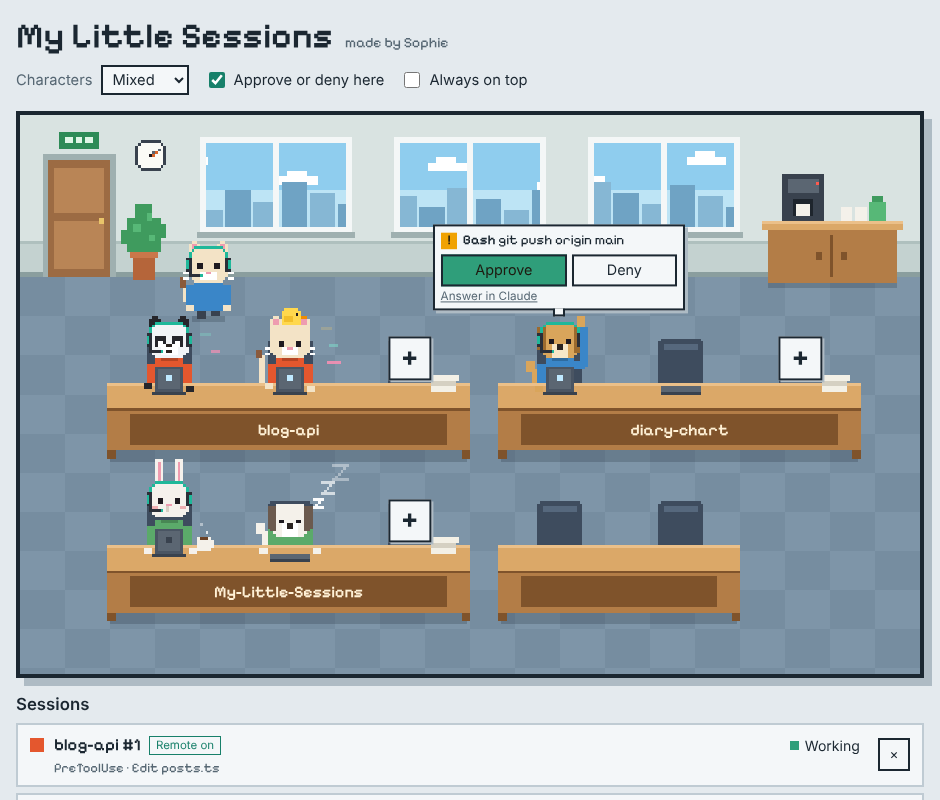
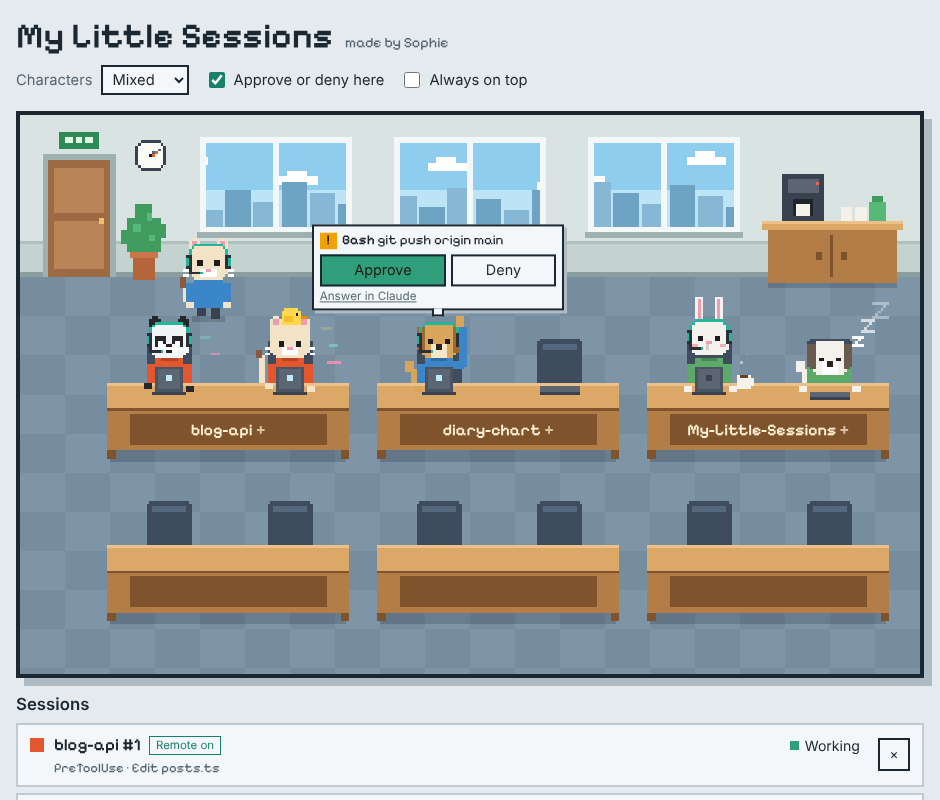
Start new sessions from the desk nameplate; rest state follows Remote Control
The spare chair with a + is gone: it left an empty seat at every desk.
A desk is now exactly as wide as its team (someone alone sits in the
middle of a two-seat desk), and clicking the project name on the desk,
or "New session here" on a character's card, opens a new session in that
project.

A waiting session now has coffee while its Remote Control is on and
sleeps while it is off. Before a hook has reported either, it still
dozes off after five quiet minutes.

Version 0.3.1.

Claude-Session: https://claude.ai/code/session_011fB4UR8gxU3EZ1Y68YrFjY

diff --git a/src/ui/app.js b/src/ui/app.js
@@ -11,7 +11,7 @@
       working: 'Working', subagent: 'Intern at work', approval: 'Needs approval', waiting: 'Waiting for you', sleeping: 'Asleep', error: 'Error', arriving: 'Arriving', leaving: 'Leaving',
       allow: 'Approve', deny: 'Deny', pass: 'Answer in Claude', answerInClaude: 'Answer this one in Claude.', more: n => `+${n} more`,
       dismiss: 'Clear desk', needsYou: 'Needs your answer',
-      newSession: name => `Start a new session in ${name}`, newFail: 'Could not open the Claude desktop app.',
+      newSession: name => `Start a new session in ${name}`, newHere: 'New session here', newFail: 'Could not open the Claude desktop app.',
       rcOn: 'Remote on', rcOff: 'Remote off', rcOnLong: 'Remote Control is connected.', rcOffLong: 'Remote Control is off for this session.',
       copyRc: 'Copy /remote-control', copied: 'Copied. Paste it into that session and press Enter.', copyFail: 'Could not copy. Type /remote-control in that session.',
       connectNone: 'Not connected to Claude Code yet. Connecting adds hooks to your Claude Code settings file (the original is backed up first), and sessions show up here whenever they do something.',
@@ -32,7 +32,7 @@
       working: '작업 중', subagent: '인턴 투입', approval: '승인 대기', waiting: '입력 대기', sleeping: '자는 중', error: '오류', arriving: '출근 중', leaving: '퇴근 중',
       allow: '승인', deny: '거절', pass: 'Claude에서 답하기', answerInClaude: '이 요청은 Claude에서 답해 주세요.', more: n => `외 ${n}건`,
       dismiss: '자리 치우기', needsYou: '확인이 필요해요',
-      newSession: name => `${name}에서 새 세션 시작`, newFail: 'Claude 데스크톱 앱을 열지 못했어요.',
+      newSession: name => `${name}에서 새 세션 시작`, newHere: '여기에 새 세션', newFail: 'Claude 데스크톱 앱을 열지 못했어요.',
       rcOn: '원격 켜짐', rcOff: '원격 꺼짐', rcOnLong: '리모트 컨트롤이 연결돼 있어요.', rcOffLong: '이 세션은 리모트 컨트롤이 꺼져 있어요.',
       copyRc: '/remote-control 복사', copied: '복사했어요. 그 세션에 붙여 넣고 Enter를 누르세요.', copyFail: '복사하지 못했어요. 그 세션에서 /remote-control을 직접 입력해 주세요.',
       connectNone: '아직 Claude Code와 연결되지 않았어요. 연결하면 Claude Code 설정 파일에 훅이 추가되고(원래 파일은 먼저 백업해요), 세션이 움직일 때마다 여기에 나타나요.',
@@ -60,6 +60,7 @@
   emptyEl.textContent = T.empty;
   $('card-dismiss').textContent = T.dismiss;
   $('card-copy').textContent = T.copyRc;
+  $('card-new').textContent = T.newHere;
   $('disconnect').textContent = T.disconnect;
   $('connect-warn').textContent = T.connectWarn;
   $('notice-ok').textContent = T.ok;
@@ -101,20 +102,16 @@
     return h >>> 0;
   }
   function makeDesk(team) {
-    const tag = document.createElement('span');
-    tag.className = 'tag';
-    const plus = document.createElement('button');
-    plus.type = 'button'; plus.className = 'plus'; plus.textContent = '+'; plus.hidden = true;
-    plus.addEventListener('click', async () => {
-      const res = await post('/api/new', { team });
-      if (!res.ok) toast(T.newFail);
-    });
-    stage.append(tag, plus);
-    return { team, tag, plus, deco: hash(team) % 3, cur: null, tgt: null, row: 0, slots: [], name: '' };
+    const tag = document.createElement('button');
+    tag.type = 'button'; tag.className = 'tag';
+    tag.addEventListener('click', () => newSession(team));
+    stage.append(tag);
+    return { team, tag, deco: hash(team) % 3, cur: null, tgt: null, row: 0, slots: [], name: '' };
   }
 
-  // Decides who sits where. Sessions of one project share a desk, in the order they started, and
-  // each team gets one spare chair that starts a new session. Returns how many rows are in use.
+  // Decides who sits where. Sessions of one project share a desk, in the order they started.
+  // A desk is never narrower than two seats, so its nameplate stays readable; someone sitting
+  // alone sits in the middle. Returns how many rows are in use.
   function arrange() {
     const groups = new Map();
     for (const v of visuals.values()) if (!teamSeen.has(v.team)) teamSeen.set(v.team, teamCount++);
@@ -123,27 +120,26 @@
     for (const v of present) { if (!groups.has(v.team)) groups.set(v.team, []); groups.get(v.team).push(v); }
     const wanted = new Map();
     for (const [team, members] of groups) {
-      const slots = [...members, null];   // the spare chair
+      const slots = members;
       for (let n = 0; n * SEATS_PER_DESK < slots.length; n++) {
         wanted.set(team + '#' + n, { team, name: members[0].session.projectName, slots: slots.slice(n * SEATS_PER_DESK, (n + 1) * SEATS_PER_DESK) });
       }
     }
-    for (const [k, d] of [...desks]) if (!wanted.has(k)) { d.tag.remove(); d.plus.remove(); desks.delete(k); }
+    for (const [k, d] of [...desks]) if (!wanted.has(k)) { d.tag.remove(); desks.delete(k); }
 
     const ends = [];
     let x = office.ROW_X, row = 0;
     for (const [k, w] of wanted) {
-      const width = w.slots.length * PITCH;
+      const width = Math.max(2, w.slots.length) * PITCH, pad = (width - w.slots.length * PITCH) / 2;
       if (x > office.ROW_X && x + width > office.ROW_END) { row++; x = office.ROW_X; }
       let d = desks.get(k);
-      const tgt = { x, T: office.rowT(row), w: width };
-      if (!d) { d = makeDesk(w.team); d.cur = { x: tgt.x, T: tgt.T, w: Math.min(width, PITCH) }; }
+      const tgt = { x, T: office.rowT(row), w: width, pad };
+      if (!d) { d = makeDesk(w.team); d.cur = { x: tgt.x, T: tgt.T, w: PITCH, pad: 0 }; }
       desks.delete(k); desks.set(k, d);   // keep the map in seating order
       d.tgt = tgt; d.row = row; d.slots = w.slots; d.name = w.name;
       d.tag.textContent = w.name;
-      d.plus.title = T.newSession(w.name); d.plus.setAttribute('aria-label', T.newSession(w.name));
+      d.tag.title = T.newSession(w.name); d.tag.setAttribute('aria-label', T.newSession(w.name));
       w.slots.forEach((v, i) => {
-        if (!v) return;
         if (v.desk !== d) { v.desk = d; v.si = i; }
         v.slot = i;
         v.shirt = SHIRTS[teamSeen.get(v.team) % SHIRTS.length];   // teammates wear the same colour
@@ -168,7 +164,7 @@
   // Desks slide and grow toward where they belong; everyone at a desk moves with it.
   function animate(dt) {
     const k = reduce ? 1 : 1 - Math.exp(-dt * 9);
-    for (const d of desks.values()) for (const p of ['x', 'T', 'w']) {
+    for (const d of desks.values()) for (const p of ['x', 'T', 'w', 'pad']) {
       const gap = d.tgt[p] - d.cur[p];
       d.cur[p] = Math.abs(gap) < 0.05 ? d.tgt[p] : d.cur[p] + gap * k;
     }
@@ -176,17 +172,16 @@
       if (!v.desk || v.mode === 'out') continue;
       const gap = v.slot - v.si;
       v.si = Math.abs(gap) < 0.01 ? v.slot : v.si + gap * k;
-      v.cx = v.desk.cur.x + PITCH / 2 + v.si * PITCH; v.T = v.desk.cur.T;
+      v.cx = v.desk.cur.x + v.desk.cur.pad + PITCH / 2 + v.si * PITCH; v.T = v.desk.cur.T;
     }
   }
   function place() {
     const W = office.W, H = office.H, pct = n => n * 100 + '%';
     for (const d of desks.values()) {
-      const c = d.cur, at = d.slots.indexOf(null);
+      const c = d.cur;
       d.tag.style.left = pct((c.x + c.w / 2) / W); d.tag.style.top = pct((c.T + 16.5) / H);
       d.tag.style.maxWidth = pct(Math.max(0, c.w - 20) / W);
-      d.plus.hidden = at < 0 || !(snapshot && snapshot.canNew);   // only the desktop app can open Claude
-      if (at >= 0) { d.plus.style.left = pct((c.x + PITCH / 2 + at * PITCH) / W); d.plus.style.top = pct((c.T - 9) / H); }
+      d.tag.disabled = !(snapshot && snapshot.canNew);   // only the desktop app can open Claude
     }
     for (const v of visuals.values()) {
       if (v.ask.hidden || !v.desk) continue;
@@ -196,13 +191,13 @@
   function scene() {
     const list = [];
     for (const d of desks.values()) {
-      const base = d.cur.x + PITCH / 2, at = d.slots.indexOf(null);
+      const base = d.cur.x + d.cur.pad + PITCH / 2;
       list.push({
         x: d.cur.x, T: d.cur.T, w: d.cur.w, deco: d.deco,
-        chairs: d.slots.map((v, i) => base + (v ? v.si : i) * PITCH),
-        seated: d.slots.filter(v => v && v.mode === 'seated'),
-        closed: d.slots.filter(v => v && v.mode === 'in').map(v => base + v.slot * PITCH),
-        decoAt: at < 0 ? null : base + at * PITCH + 12
+        chairs: d.slots.map(v => base + v.si * PITCH),
+        seated: d.slots.filter(v => v.mode === 'seated'),
+        closed: d.slots.filter(v => v.mode === 'in').map(v => base + v.slot * PITCH),
+        decoAt: d.slots.length === 1 ? d.cur.x + d.cur.w - 11 : null   // room for an ornament only beside someone sitting alone
       });
     }
     for (const f of fillers) list.push({ x: f.x, T: f.T, w: f.w, chairs: [f.x + PITCH / 2, f.x + PITCH * 1.5], seated: [], closed: [], decoAt: null });
@@ -214,7 +209,7 @@
     let pts;
     if (dir === 'in') {
       const d = v.desk, cy = office.corrY(d.row);
-      pts = [door, { x: door.x, y: cy }, { x: d.tgt.x + PITCH / 2 + v.slot * PITCH, y: cy }];
+      pts = [door, { x: door.x, y: cy }, { x: d.tgt.x + d.tgt.pad + PITCH / 2 + v.slot * PITCH, y: cy }];
     } else {
       const cy = office.corrY(v.desk ? v.desk.row : 0);
       pts = [{ x: v.cx, y: cy }, { x: door.x, y: cy }, door];
@@ -333,6 +328,10 @@
     const p = v.session.pending.find(x => x.canDecide);
     if (p) await post('/api/decide', { pending: p.id, decision });
   }
+  async function newSession(team) {
+    const res = await post('/api/new', { team });
+    if (!res.ok) toast(T.newFail);
+  }
   function closeCard() { cardFor = null; card.hidden = true; }
   function fillCard(v) {
     const known = typeof v.session.remote === 'boolean';
@@ -341,6 +340,7 @@
     $('card-rc').hidden = !known;
     $('card-rc').textContent = v.session.remote ? T.rcOnLong : T.rcOffLong;
     $('card-copy').hidden = v.session.remote !== false;
+    $('card-new').hidden = !(snapshot && snapshot.canNew);
   }
   async function copyText(text) {
     try { await navigator.clipboard.writeText(text); return true; } catch (e) { /* fall back below */ }
@@ -371,6 +371,7 @@
   canvas.addEventListener('mousemove', e => { canvas.style.cursor = visualAt(e) ? 'pointer' : 'default'; });
   document.addEventListener('keydown', e => { if (e.key === 'Escape') closeCard(); });
   $('card-copy').addEventListener('click', async () => { toast(await copyText('/remote-control') ? T.copied : T.copyFail); });
+  $('card-new').addEventListener('click', () => { if (cardFor) newSession(cardFor.team); closeCard(); });
   $('card-dismiss').addEventListener('click', () => { if (cardFor) post('/api/dismiss', { session: cardFor.id }); closeCard(); });
 
   $('skin').addEventListener('change', e => post('/api/settings', { skin: e.target.value }));

diff --git a/src/ui/style.css b/src/ui/style.css
@@ -48,11 +48,11 @@ button.link { border: 0; background: none; padding: 0; color: var(--muted); text
 
 .stage { position: relative; max-width: 100%; aspect-ratio: 320 / 200; border: 4px solid var(--frame); box-shadow: 8px 8px 0 var(--drop); container-type: inline-size; background: var(--frame); }
 .stage canvas { position: absolute; inset: 0; width: 100%; height: 100%; display: block; image-rendering: pixelated; }
-.tag { position: absolute; transform: translate(-50%, -50%); overflow: hidden; text-overflow: ellipsis; white-space: nowrap; pointer-events: none; font: 600 clamp(7px, 1.8cqw, 16px)/1 var(--f-pixel); color: var(--plate-text); }
-.tag.off { opacity: .45; }
-/* the spare chair at each team desk: starts a new session for that project */
-.plus { position: absolute; transform: translate(-50%, -50%); display: grid; place-items: center; width: 4.8cqw; height: 4.8cqw; min-width: 20px; min-height: 20px; padding: 0; font: 600 clamp(13px, 3.2cqw, 28px)/1 var(--f-pixel); box-shadow: 2px 2px 0 var(--drop); }
-.plus:hover { background: var(--st-work); color: var(--on-ask); filter: none; }
+/* the project name on a desk; clicking it starts a new session in that project */
+.tag { position: absolute; transform: translate(-50%, -50%); overflow: hidden; text-overflow: ellipsis; white-space: nowrap; padding: .25em .3em; border: 0; background: none; font: 600 clamp(7px, 1.8cqw, 16px)/1 var(--f-pixel); color: var(--plate-text); }
+.tag:enabled::after { content: " +"; opacity: .7; }
+.tag:enabled:hover { color: #FFFFFF; text-decoration: underline; filter: none; }
+.tag:disabled { pointer-events: none; cursor: default; }
 .empty { position: absolute; left: 50%; bottom: 2.5%; transform: translateX(-50%); width: max-content; max-width: 86%; margin: 0; padding: 8px 12px; text-align: center; background: var(--surface); color: var(--ink); border: 2px solid var(--ink); box-shadow: 3px 3px 0 var(--drop); }
 
 /* speech bubble above a character that needs an answer, and the card shown when a character is clicked */

diff --git a/src/sessions.js b/src/sessions.js
@@ -3,7 +3,7 @@
 const { EventEmitter } = require('events');
 
 const STALE_MS = 12 * 60 * 60 * 1000;
-const SLEEP_MS = 5 * 60 * 1000;   // a waiting session with no activity for this long dozes off
+const SLEEP_MS = 5 * 60 * 1000;   // how long a waiting session stays up when its Remote Control state is unknown
 const KNOWN = new Set([
   'SessionStart', 'UserPromptSubmit', 'PreToolUse', 'PostToolUse', 'PostToolUseFailure',
   'PermissionRequest', 'PermissionDenied', 'Notification', 'SubagentStart', 'SubagentStop',
@@ -200,6 +200,14 @@ class Office extends EventEmitter {
     }
   }
 
+  // A waiting session has coffee while its Remote Control is on, and sleeps while it is off: nobody
+  // can reach it from elsewhere. Until a hook has reported either, it dozes off after a quiet while.
+  asleep(s) {
+    if (s.base !== 'waiting') return false;
+    if (typeof s.remote === 'boolean') return !s.remote;
+    return this.now() - s.lastAt > SLEEP_MS;
+  }
+
   snapshot() {
     return [...this.sessions.values()]
       .sort((a, b) => a.startedAt - b.startedAt)
@@ -208,7 +216,7 @@ class Office extends EventEmitter {
         id: s.id, name: s.name, cwd: s.cwd, ev: s.ev, error: s.error, remote: s.remote,
         project: s.project, projectName: baseName(s.project), team: teamKey(s.project),
         state: s.pending.length ? 'approval' : s.error ? 'error' : s.subagents > 0 ? 'subagent'
-          : s.base === 'waiting' && this.now() - s.lastAt > SLEEP_MS ? 'sleeping' : s.base,
+          : this.asleep(s) ? 'sleeping' : s.base,
         pending: s.pending.map(p => ({ id: p.id, tool: p.tool, text: p.text, canDecide: p.canDecide }))
       }));
   }

diff --git a/test/sessions.test.js b/test/sessions.test.js
@@ -185,3 +185,16 @@ test('sessions of one project share a team, including worktrees and Windows casi
   assert.equal(projectRoot('/home/sophie/app/.claude/worktrees/x/sub'), '/home/sophie/app');
   assert.notEqual(teamKey('/home/sophie/App'), teamKey('/home/sophie/app'), 'case matters outside Windows');
 });
+
+test('a waiting session has coffee with Remote Control on and sleeps with it off', () => {
+  let now = 1000;
+  const o = new Office({ now: () => now });
+  o.handle(ev('Stop'), { remote: true });
+  assert.equal(only(o).state, 'waiting');
+  now += SLEEP_MS * 10;
+  assert.equal(only(o).state, 'waiting', 'reachable sessions stay up however long they wait');
+  o.handle(ev('Stop'), { remote: false });
+  assert.equal(only(o).state, 'sleeping', 'asleep at once when Remote Control is off');
+  o.handle(ev('UserPromptSubmit'), { remote: false });
+  assert.equal(only(o).state, 'working', 'working sessions never sleep');
+});

diff --git a/src/ui/index.html b/src/ui/index.html
@@ -51,6 +51,7 @@
       <span class="card-rc" id="card-rc" hidden></span>
       <span class="card-btns">
         <button type="button" id="card-copy" class="solid" hidden></button>
+        <button type="button" id="card-new" hidden></button>
         <button type="button" id="card-dismiss"></button>
       </span>
     </div>

diff --git a/README.md b/README.md
@@ -26,8 +26,8 @@ Windows may show a "Windows protected your PC" notice because the app is not cod
 | A chick intern rides on its head | A subagent is running |
 | Raises a hand, with a speech bubble | Claude needs your permission |
 | Wears a headset | Remote Control is connected for that session |
-| Sips coffee | Claude just finished and is waiting for you |
-| Sleeps on the desk, with floating z's | Nothing has happened for 5 minutes |
+| Sips coffee | Waiting for you, with Remote Control on |
+| Sleeps on the desk, with floating z's | Waiting for you, with Remote Control off |
 | Slumps with a red ✕ | The turn ended with an API error |
 | Walks out | The session ended |
 
@@ -35,10 +35,11 @@ A few more things the office does on its own:
 
 - **The office always matches your sessions.** Characters arrive, change and leave on their own, and reopening the app brings back whoever was there.
 - **Sessions of the same project sit together.** They share one long desk with the project's name on it and wear the same colour. The desk grows when a teammate arrives and closes up when one leaves. Sessions in a worktree sit with their project.
-- **The empty chair with a + starts a new session.** Every team keeps one spare chair. Clicking it opens the Claude desktop app with a new session in that project, and the new teammate walks in and takes the seat.
+- **A desk's nameplate starts a new session.** Click the project name on a desk, or a character and then **New session here**, and the Claude desktop app opens a new session in that project. The new teammate walks in and the desk makes room.
 - **The wall clock and the sky outside follow your real time**, so the office goes through day, sunset and night with you.
 - **Characters can be people, cats, dogs, bears, rabbits, or a mix.** A session keeps the same look for as long as it lives.
 - **Clicking a character** shows which folder it is working in, with a button to clear its desk. If its Remote Control is off, there is also a button that copies `/remote-control` so you can paste it into that session.
+- **Coffee or sleep depends on Remote Control.** A waiting session you can still reach from elsewhere stays up with a coffee; one you cannot is asleep. Right after the app starts, before a session has reported in, it has coffee for 5 minutes and then dozes off.
 - **The headset follows the session's last activity.** If Remote Control drops while a session sits idle, the headset comes off the next time that session does something.
 
 ## Approving from the office
